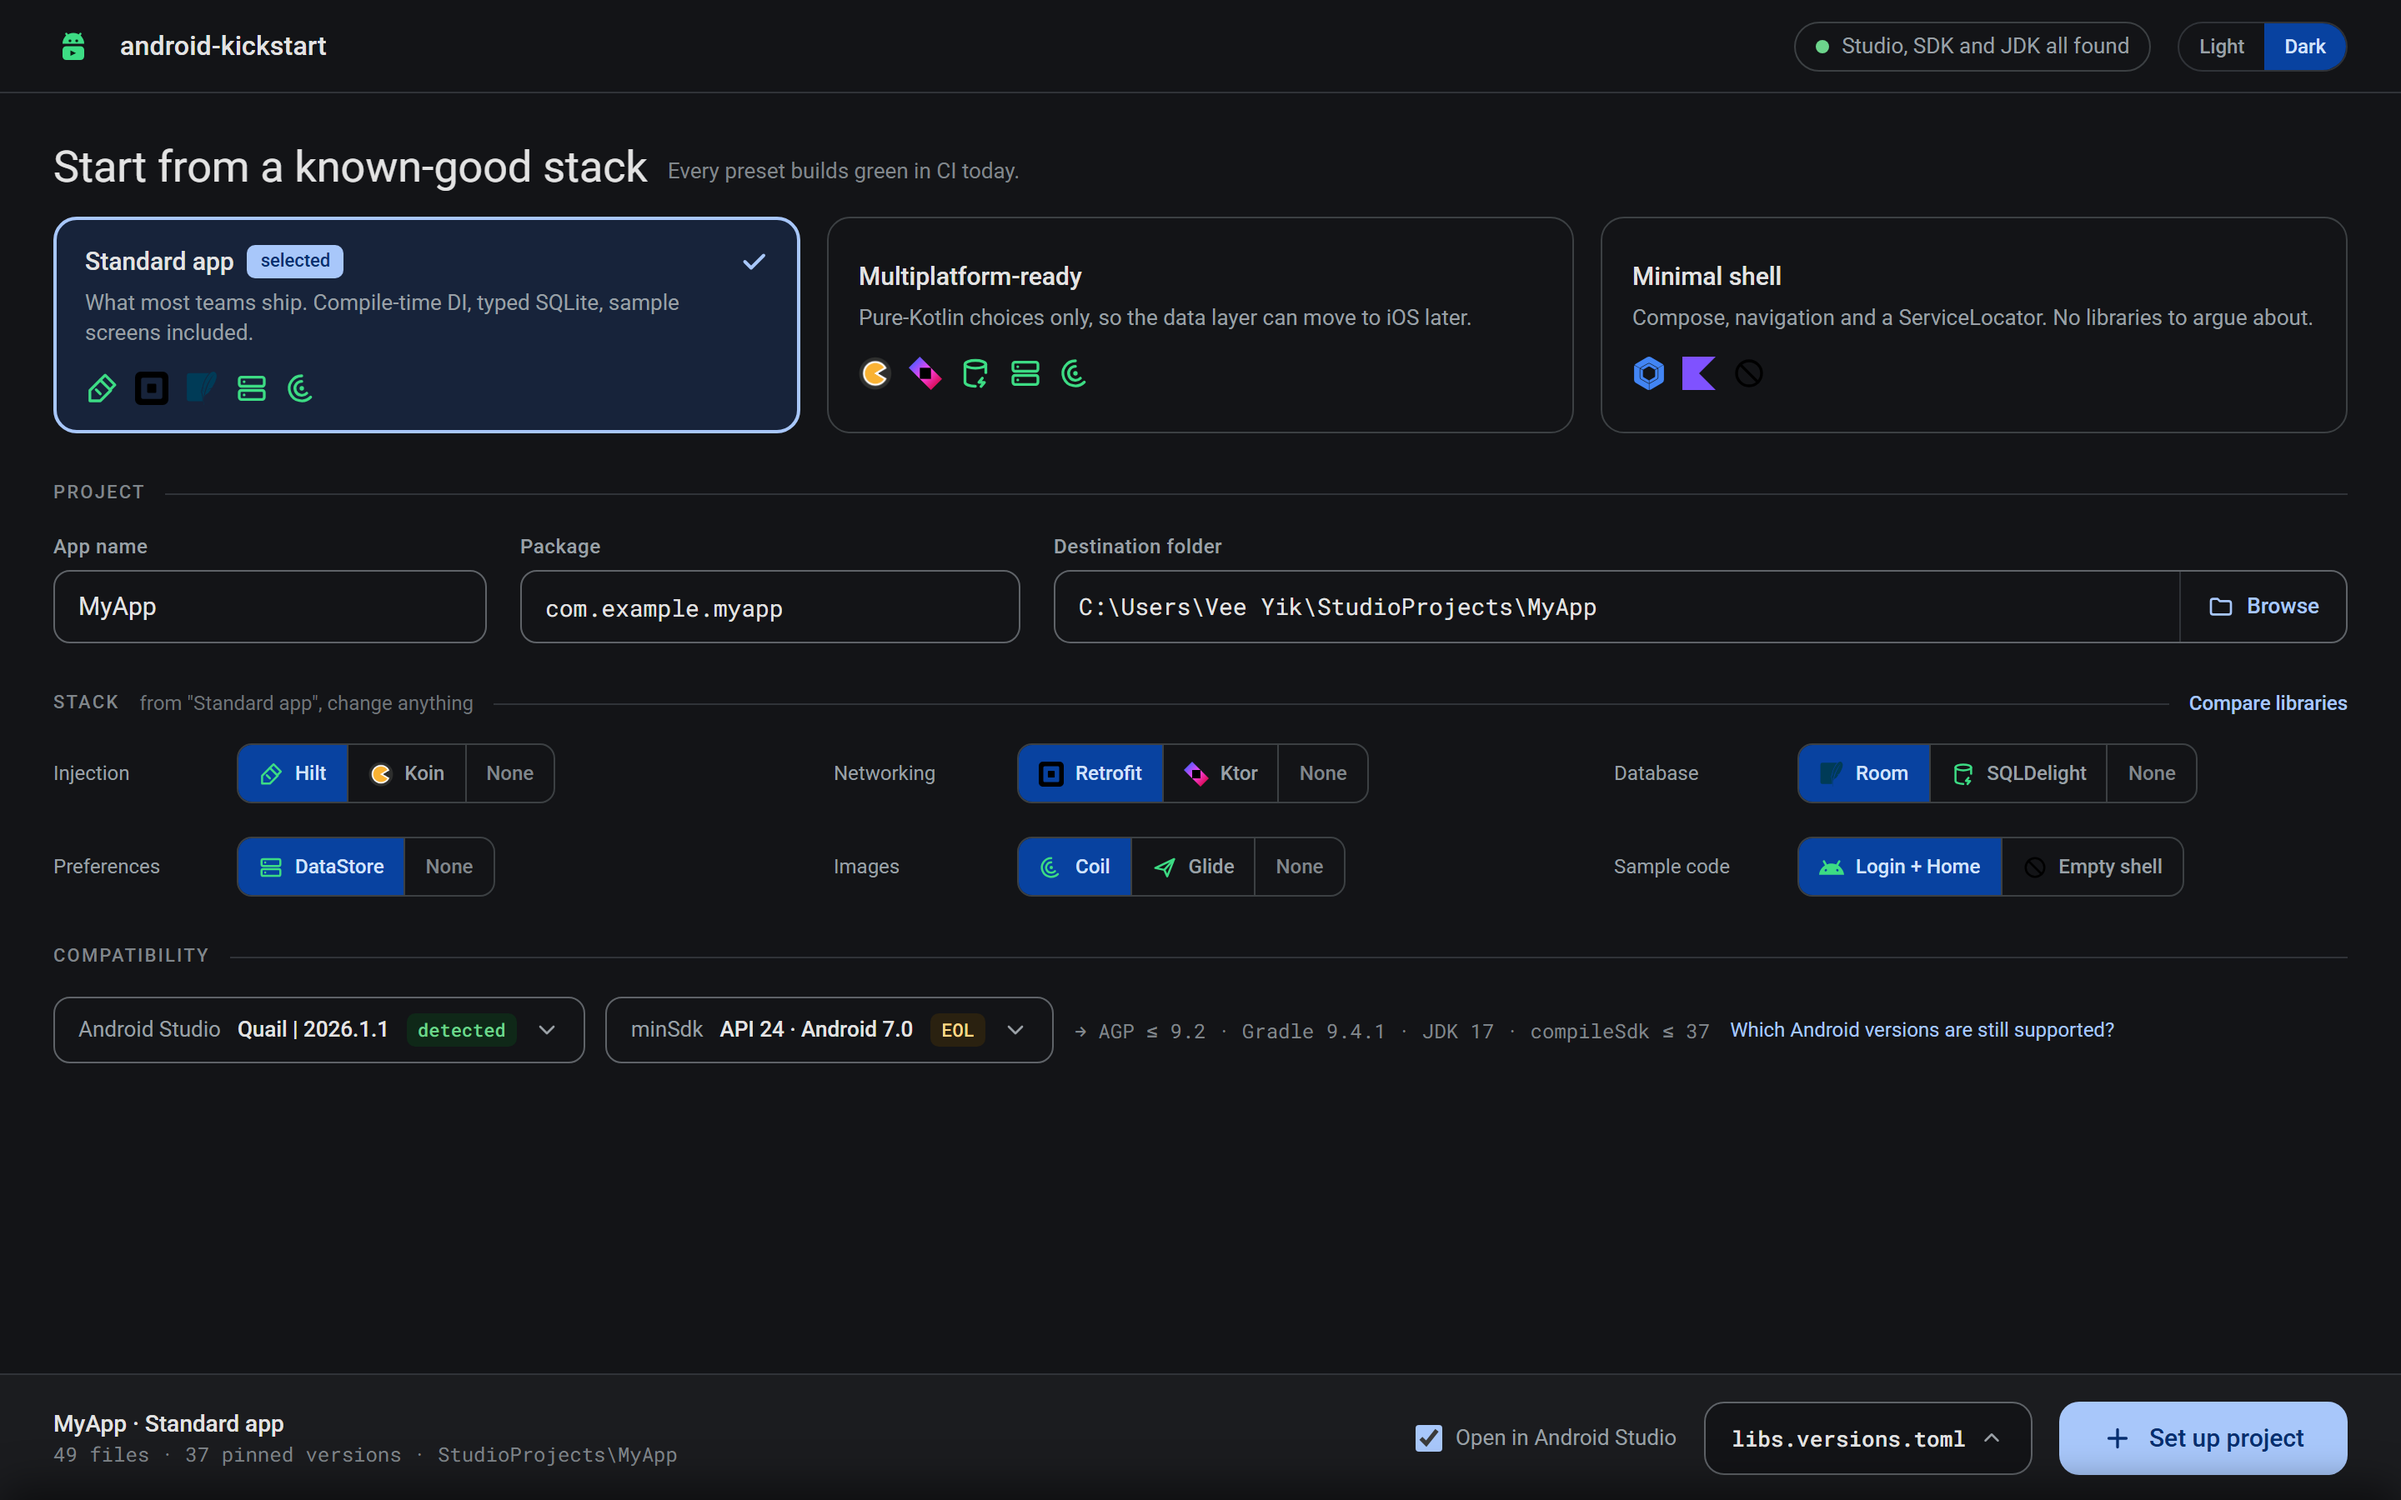
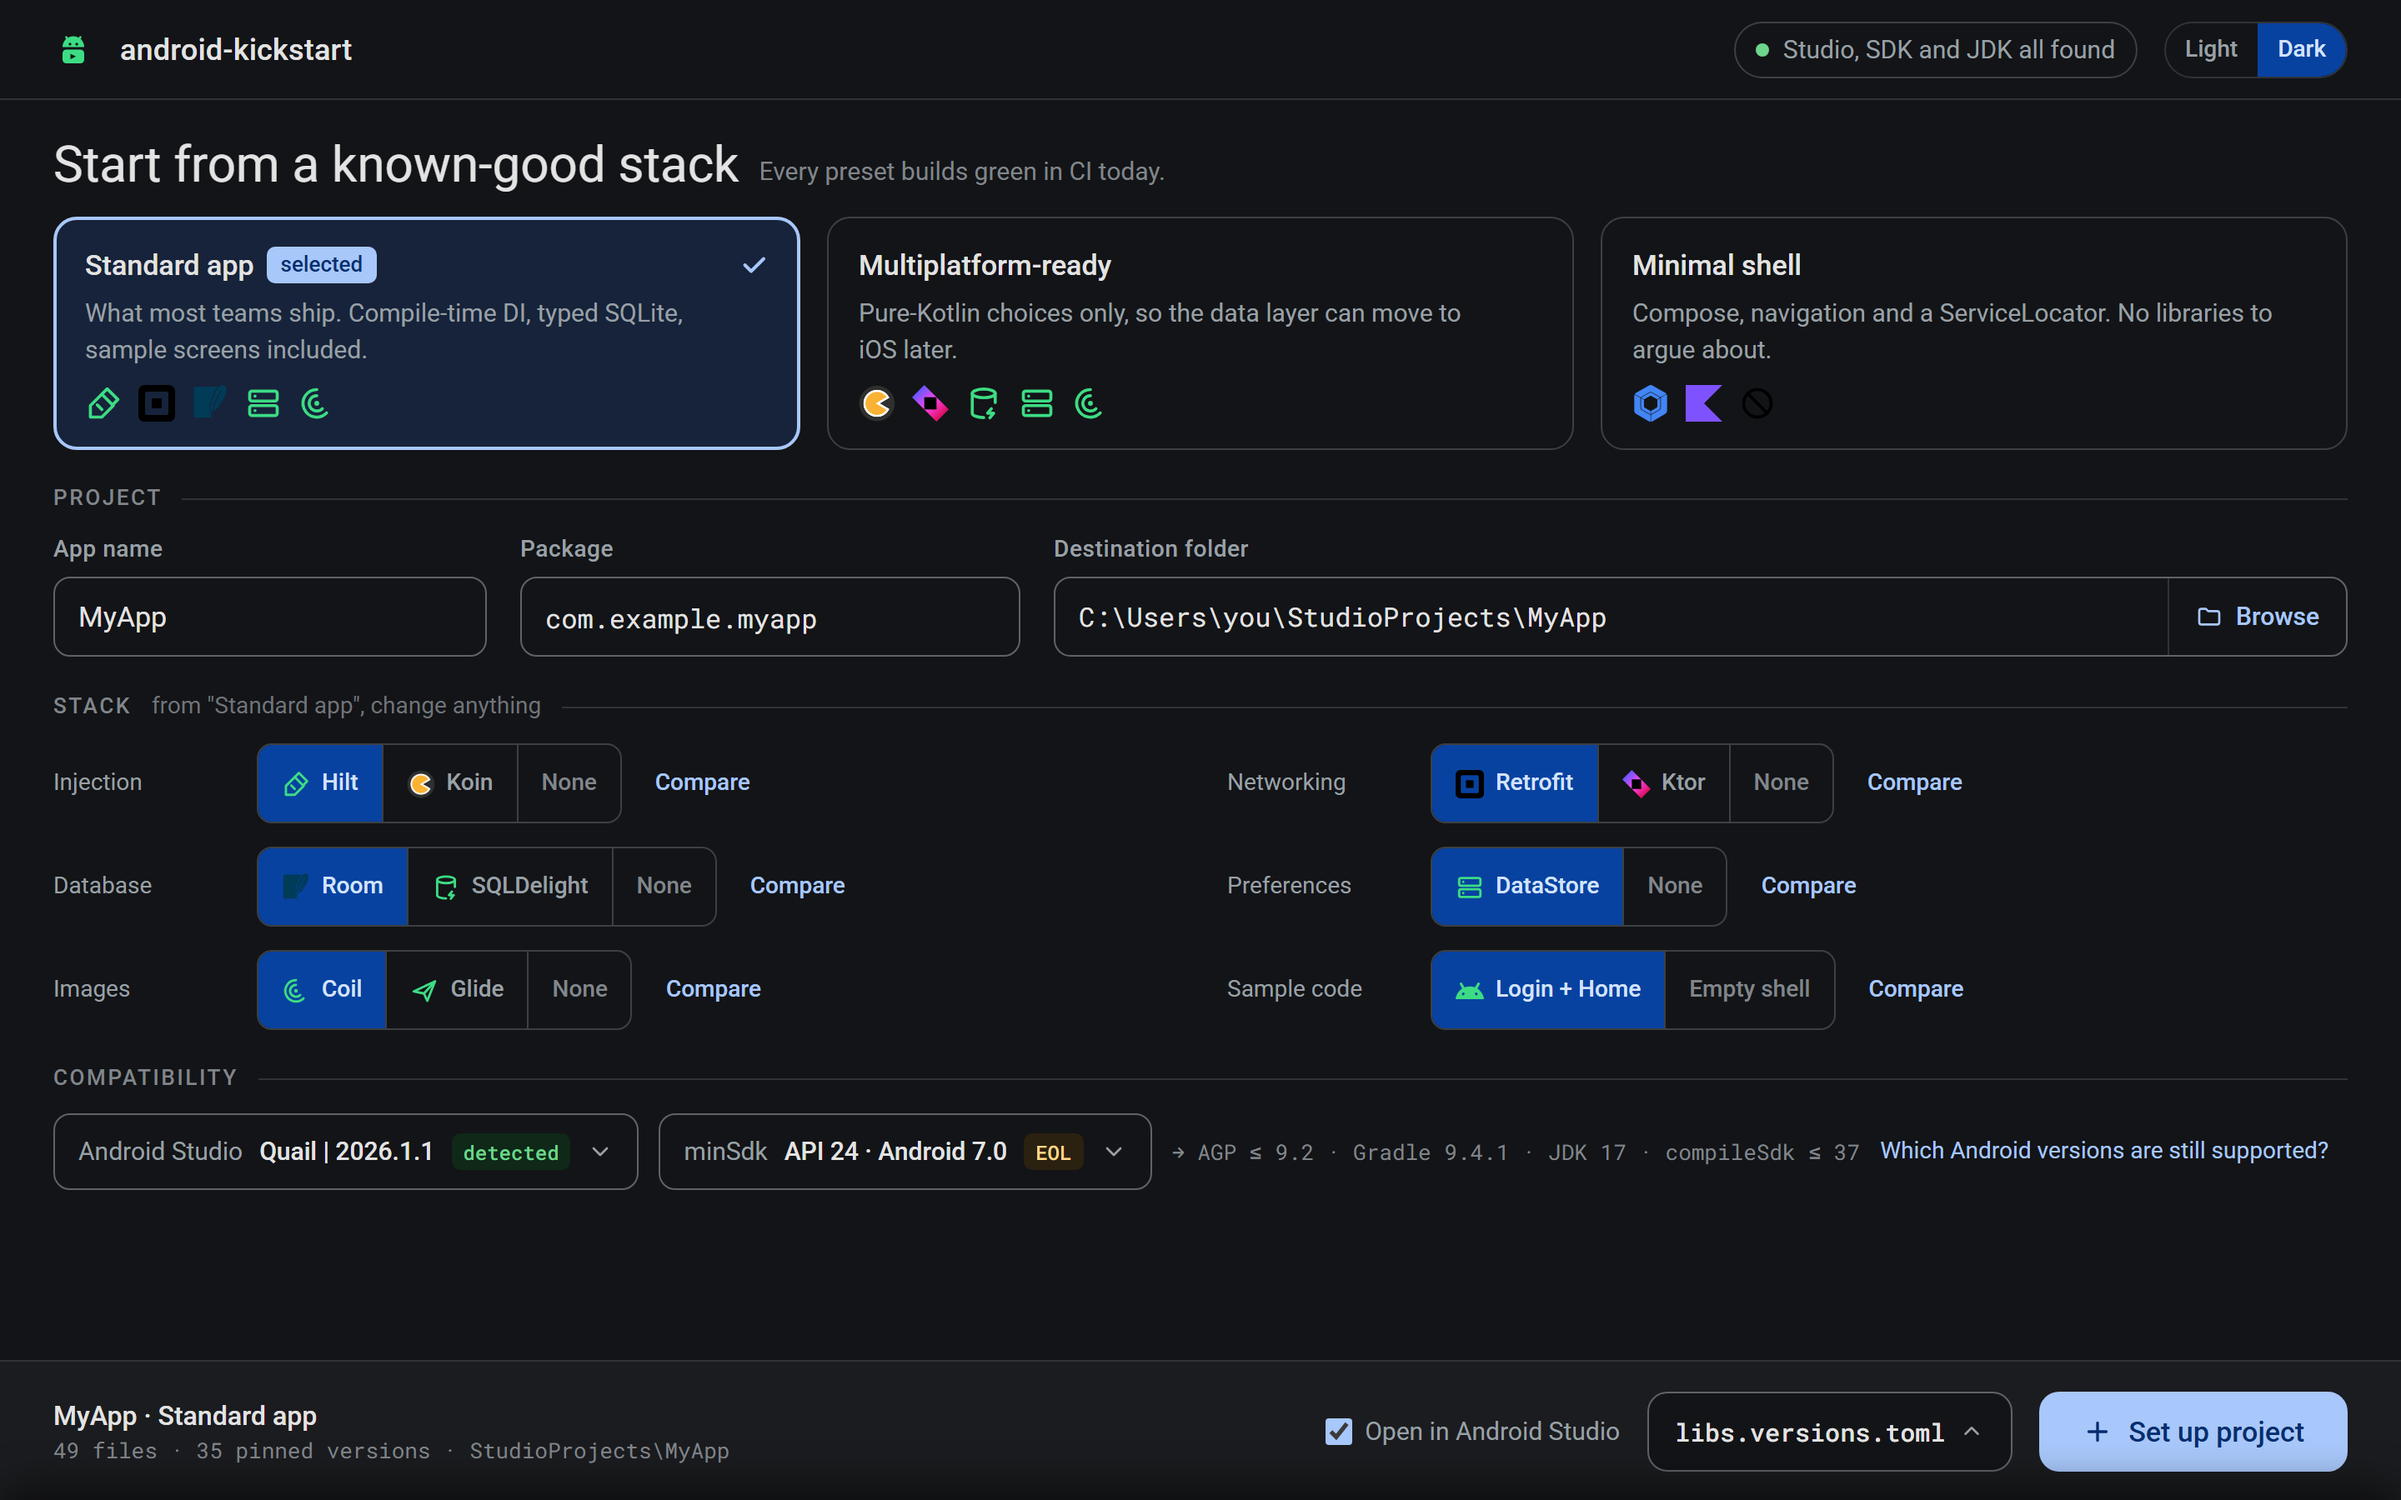
Harden the local GUI and validate scaffold identifiers
The GUI server writes files and runs Gradle, and had no CSRF defence:
/api/create changed state on a GET, and nothing checked Origin or Host. Any
page a developer visited while the GUI was open could scaffold a project to a
path of its choosing and start a build.

Separately, --name and --package were only validated in the interactive
prompts. Through the flags or the GUI, a crafted package closed the string it
landed in and appended arbitrary Kotlin to build.gradle.kts, which Gradle
executes at configuration time. Together those two were remote code execution.

- Require a per-run token on every /api/ call, and a loopback Host so DNS
  rebinding cannot read that token (src/guard.mjs, testable without a port).
- Validate app name and package in buildContext, so every caller is covered.
- Pin the Gradle distribution checksum in the generated wrapper, fetched from
  services.gradle.org; omitted offline rather than guessed.
- Retake the README screenshots without a real home directory in them.

diff --git a/gui/index.html b/gui/index.html
@@ -537,6 +537,16 @@
 </dialog>
 
 <script>
+// Substituted by the server when it serves this page. Every /api/ call must carry it, so a
+// page on another origin cannot drive the tool - it never gets to read this value.
+const TOKEN = '__AK_TOKEN__';
+const api = (path, params) => {
+  const u = new URL(path, location.origin);
+  for (const [k, v] of Object.entries(params ?? {})) u.searchParams.set(k, v);
+  u.searchParams.set('t', TOKEN);
+  return u.pathname + u.search;
+};
+
 const GROUPS = {
   di:      { label: 'Injection',   opts: [['hilt','Hilt'],['koin','Koin'],['none','None']] },
   network: { label: 'Networking',  opts: [['retrofit','Retrofit'],['ktor','Ktor'],['none','None']] },
@@ -741,7 +751,7 @@ async function refresh() {
   const mine = ++seq;
   if (drawer === 'toml') $('toml').textContent = 'resolving…';
   try {
-    const res = await fetch('/api/preview', {
+    const res = await fetch(api('/api/preview'), {
       method: 'POST', headers: { 'Content-Type': 'application/json' },
       body: JSON.stringify(config()),
     });
@@ -849,7 +859,7 @@ $('browse').addEventListener('click', async () => {
   $('sumLine2').className = 'line2';
   $('sumLine2').textContent = 'waiting for the folder dialog…';
   try {
-    const data = await (await fetch('/api/pick-folder', { method: 'POST' })).json();
+    const data = await (await fetch(api('/api/pick-folder'), { method: 'POST' })).json();
     if (data.path) {
       $('destPath').dataset.root = data.path;
       updateDestDisplay();
@@ -882,7 +892,7 @@ $('create').addEventListener('click', () => {
   const params = new URLSearchParams(Object.assign({}, cfg, {
     build: '', open: $('autorun').checked ? '1' : '',
   }));
-  const es = new EventSource('/api/create?' + params.toString());
+  const es = new EventSource(api('/api/create') + '&' + params.toString());
   es.addEventListener('out', (e) => log(JSON.parse(e.data)));
   es.addEventListener('done', (e) => {
     const d = JSON.parse(e.data);
@@ -946,7 +956,7 @@ function installGuide() {
 
 async function init() {
   LIBS = await (await fetch('/libraries.json')).json();
-  INIT = await (await fetch('/api/init')).json();
+  INIT = await (await fetch(api('/api/init'))).json();
 
   $('destPath').dataset.root = INIT.defaultOut || '';
   updateDestDisplay();
@@ -978,8 +988,8 @@ async function init() {
 }
 
 // Tell the server we are still here; it exits shortly after the tab goes away.
-setInterval(() => { fetch('/api/ping').catch(() => {}); }, 5000);
-window.addEventListener('pagehide', () => { navigator.sendBeacon('/api/bye'); });
+setInterval(() => { fetch(api('/api/ping')).catch(() => {}); }, 5000);
+window.addEventListener('pagehide', () => { navigator.sendBeacon(api('/api/bye')); });
 
 init();
 </script>
